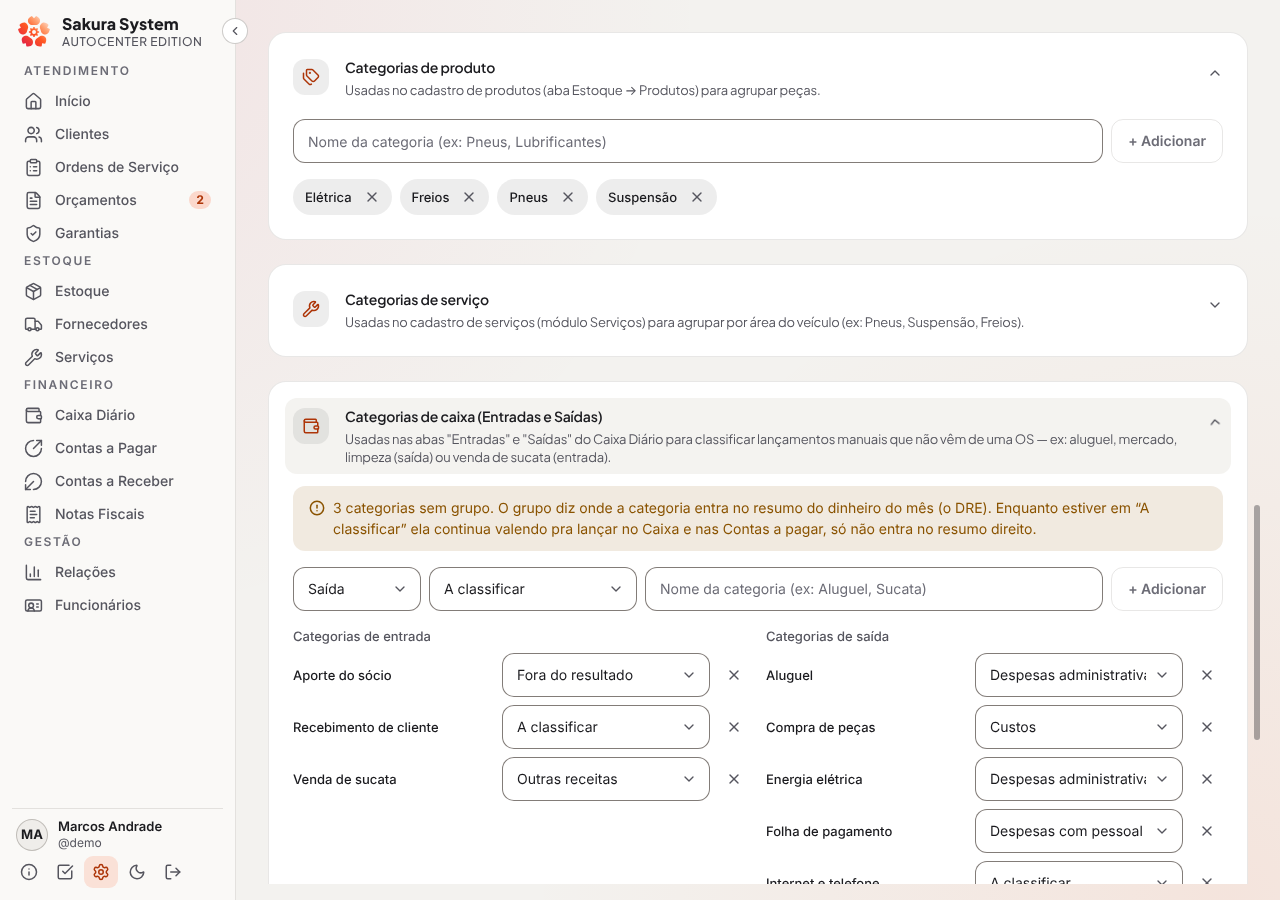
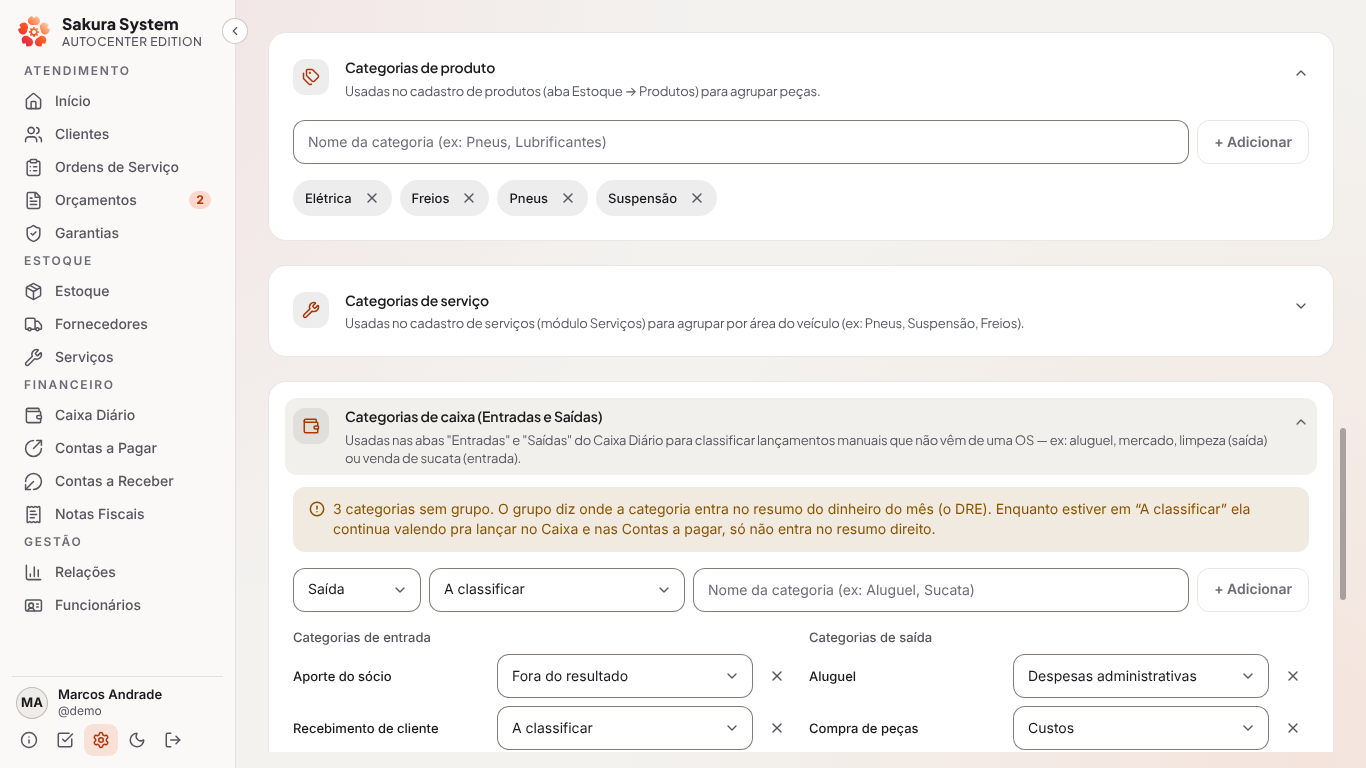
Campo do grupo mais largo (o nome inteiro cabe) e fotos em 1366x768 (#386)
Claude-Session: https://claude.ai/code/session_01Qm3dJ3NpDggkd8Q3wPTJ5A

diff --git a/src/pages/configuracoes/CategoriasCaixaSection.tsx b/src/pages/configuracoes/CategoriasCaixaSection.tsx
@@ -110,7 +110,7 @@ export function CategoriasCaixaSection({ categorias, onSalvo }: CategoriasCaixaS
                   aria-label={`Grupo de ${categoria.nome}`}
                   value={escolhas[categoria.id] ?? categoria.grupo}
                   onChange={(e) => handleTrocarGrupo(categoria, e.target.value as GrupoDre)}
-                  className="sakura-campo w-52 shrink-0"
+                  className="sakura-campo w-64 shrink-0"
                 >
                   {gruposParaTipo(categoria.tipo).map((g) => (
                     <option key={g.chave} value={g.chave}>
@@ -157,7 +157,7 @@ export function CategoriasCaixaSection({ categorias, onSalvo }: CategoriasCaixaS
           aria-label="Grupo da nova categoria"
           value={grupo}
           onChange={(e) => setGrupo(e.target.value as GrupoDre)}
-          className="sakura-campo w-52 shrink-0"
+          className="sakura-campo w-64 shrink-0"
         >
           {gruposParaTipo(tipo).map((g) => (
             <option key={g.chave} value={g.chave}>
